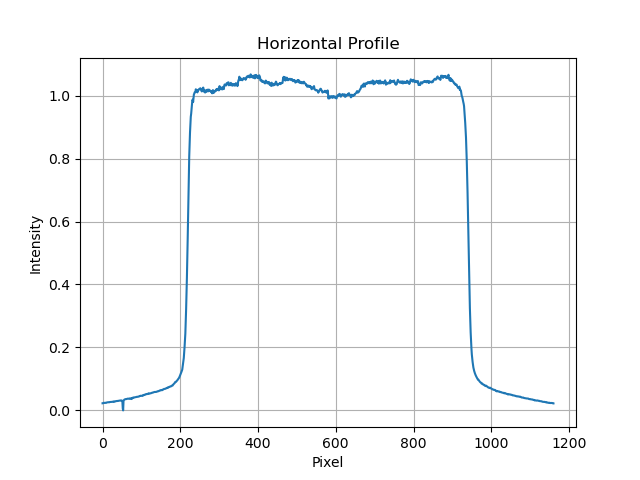
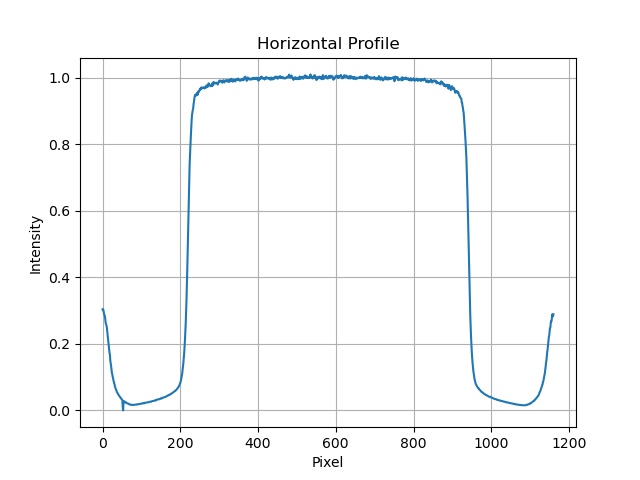
6x Working instead of 6xMvK...

diff --git a/src/data_manipulation/ETL/DataProcessor.py b/src/data_manipulation/ETL/DataProcessor.py
@@ -116,7 +116,8 @@ class DataProcessor:
             # Heuristic based on ending char
             if variant == "6xMVkVEnhancedCouch":
                 # Special case for 6x geometry check
-                beam_map[variant] = (GeoModel, "6xMVkVEnhancedCouch", typeID)
+                #beam_map[variant] = (GeoModel, "6xMVkVEnhancedCouch", typeID)
+                beam_map[variant] = (XBeamModel, "6x", typeID)
             elif variant == "6xFFF":
                 # Special case for 6xFFF check
                 beam_map[variant] = (XBeamModel, "6xFFF", typeID)
@@ -196,10 +197,10 @@ class DataProcessor:
             logger.info(f"Skipping EnhancedMLCCheckTemplate6x path (leaves not ingested): {self.data_path}")
             return
 
-        if not is_test:
-            self.connect_to_db()
-        #beam_map = self._get_dynamic_beam_map(is_test)
-        beam_map = self._get_static_beam_map(is_test)
+        
+        self.connect_to_db()
+        beam_map = self._get_dynamic_beam_map(is_test)
+        #beam_map = self._get_static_beam_map(is_test)
         if not beam_map:
             return
 

diff --git a/src/data_manipulation/ETL/image_extractor.py b/src/data_manipulation/ETL/image_extractor.py
@@ -181,7 +181,7 @@ class image_extractor:
         plt.imshow(flood, cmap='gray')
         plt.title("Flood")
         plt.axis('off')
-        plt.show()
+        #plt.show()
         # Note: Not closing figure here - it needs to remain open for later PNG conversion
         # The figure will be garbage collected when no longer referenced
 
